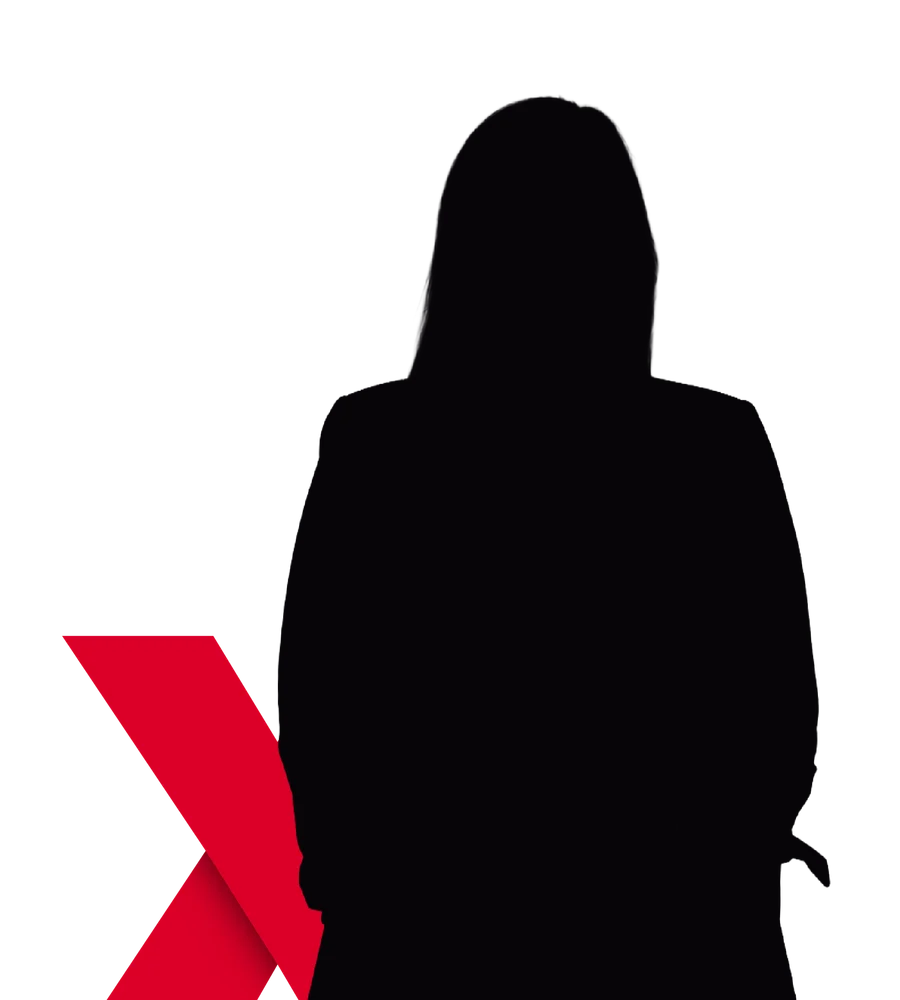
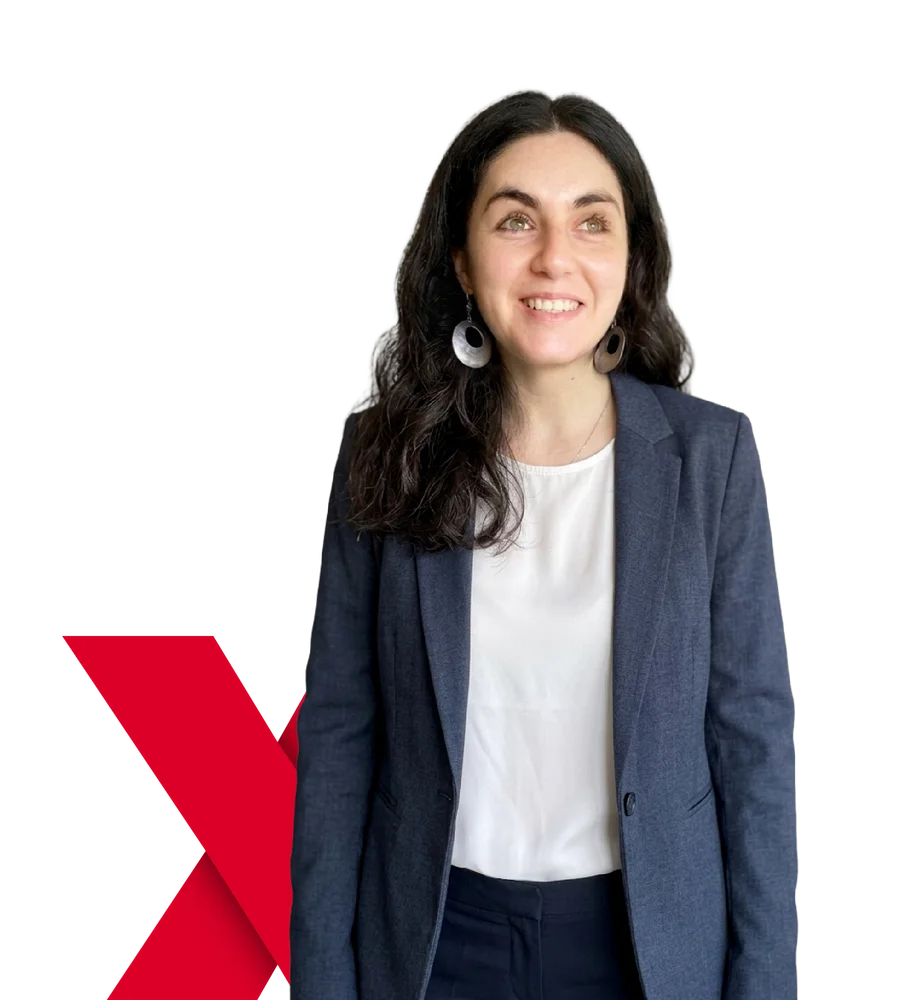
fix(speakers): sale Octavio Enriquez, entra la foto real de Paulina Saravia
Pedido de Nata (19-nov-2026). Quedan 5 speakers; el contador de la Ficha
pasa de 6 a 5. CLAUDE.md actualizado.

diff --git a/CLAUDE.md b/CLAUDE.md
@@ -38,8 +38,8 @@ Textura concreto al 18% de opacidad: clase `.texture-overlay` → `textura-concr
 | 2 | `equipo` | EN COLABORACIÓN (equipo 6 headshots) | Claro + textura |
 | 3 | `que-es-tedx` | ¿QUÉ ES TEDx? (2 cols: texto + foto) | Claro |
 | 4 | `tedxwomen` | ¿POR QUÉ TEDxWomen? (texto + foto) | Claro + textura |
-| 5 | `speakers` | LAS VOCES QUE NOS INVITAN A ALZAR EL VUELO — 6 speakers (ocupa desde 18-nov-2026 el lugar de "Alzar el vuelo", antes de la Ficha) | Banda oscura + claro con textura |
-| 6 | `evento` | FICHA TÉCNICA — polaroid + fecha/lugar + temáticas + contadores (6 speakers) | Claro |
+| 5 | `speakers` | LAS VOCES QUE NOS INVITAN A ALZAR EL VUELO — 5 speakers (ocupa desde 18-nov-2026 el lugar de "Alzar el vuelo", antes de la Ficha) | Banda oscura + claro con textura |
+| 6 | `evento` | FICHA TÉCNICA — polaroid + fecha/lugar + temáticas + contadores (5 speakers) | Claro |
 | 7 | `prensa` | ENTREVISTAS Y PRENSA — grid de 10 tarjetas, se ven 6 y un botón ↓ despliega las otras 4 | Oscuro |
 | 8 | `partners` | NUESTROS PARTNERS — carrusel 29 logos (1 por slide, con enlace externo si hay URL) | Claro + textura |
 | 9 | `auspiciadores` | ¿POR QUÉ SUMARSE COMO AUSPICIADOR? (2 polaroids rotadas) | Oscuro |
@@ -153,10 +153,10 @@ Contenido de `ACTUALIZACION DE CONTENIDO SITIO WEB.docx` (carpeta cliente `Web -
 Fotos en `src/assets/images/speaker-*.webp` (900×1000, fondo transparente con la "X" roja ya
 incluida). La banda oscura superior es un pseudo-elemento de la foto de la primera tarjeta
 (`200vw`, baja al 70% de la foto) — no un bloque aparte, así sigue al diseño en cualquier ancho.
-Sin `url` no se muestra ícono (Octavio Enriquez). Hans Contreras usa Instagram, no LinkedIn.
-⚠ **Paulina Saravia figura "por confirmar" en el documento de Nata** y su foto es una silueta
-provisional (`speaker-paulina-saravia.webp`): reemplazar cuando llegue.
-El contador de la Ficha Técnica dice 6 speakers (corregido 18-nov-2026).
+Sin `url` no se muestra ícono. Hans Contreras usa Instagram, no LinkedIn.
+Octavio Enriquez salió de la lista (pedido de Nata, 19-nov-2026); la foto real de Paulina Saravia
+entró el mismo día (ya no está "por confirmar"). Son 5 speakers y el contador de la Ficha
+(`evento.speakers`) dice 5.
 
 ## S07 Prensa — arquitectura (oct-2026; 10 piezas desde nov-2026)
 
@@ -213,9 +213,9 @@ correspondía a ningún logo real y generaba CLS al pintar.
 9. **URLs de PImagen, VIC-UdeC, Sistémico, Lotería, Bar Callejón y los 13 partners nuevos de
    nov-2026** (`#partners`, logos sin link) — pendiente de Nata/Javiera
 12. ~~Quitar el banner al vencer la preventa~~ ✅ se retira solo el 22-nov (`bannerHasta`). Pendiente: confirmar con Javiera si la venta sigue después a precio normal (el botón del menú no caduca)
-13. **Foto definitiva de Paulina Saravia** y confirmar que participa (figura "por confirmar")
+13. ~~Foto definitiva de Paulina Saravia~~ ✅ integrada 19-nov-2026
 14. Confirmar si el "Especial TEDx en TVU" (nov) se suma a la tarjeta del matinal de TVU (hoy se
-    sumaron las dos). El contador de la Ficha ya dice 6 (18-nov-2026)
+    sumaron las dos). El contador de la Ficha dice 5 (19-nov-2026)
 10. ~~CTA rojo del header~~ ✅ desde 17-nov-2026 es "Compra tu entrada" → Evenia (aprobado por Nata)
 11. Confirmar si se agrega "Prensa" al nav (hecho provisionalmente) o si la sección queda solo
     descubrible por scroll. "Speakers" se agregó al nav en nov-2026 (así sale en el diseño de Nata).
